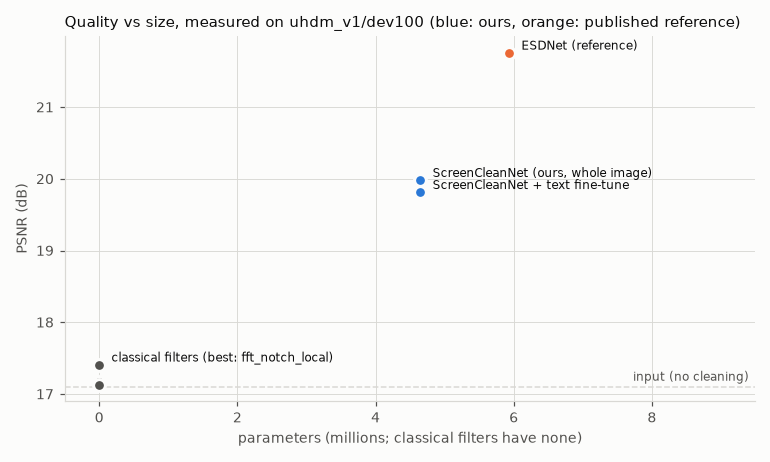
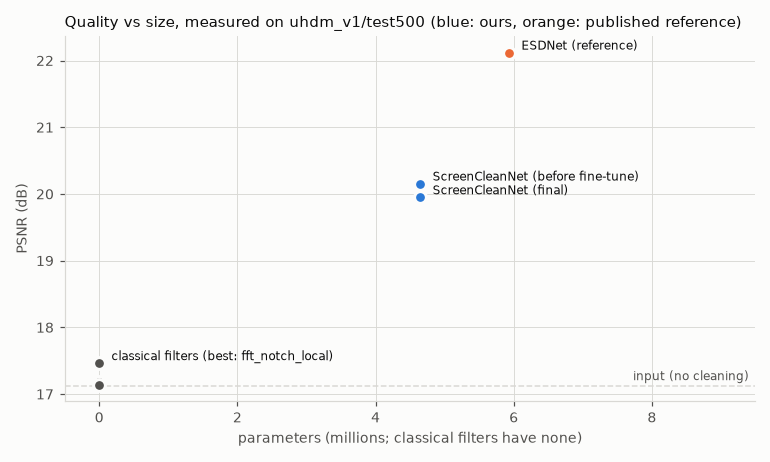
Synthetic OCR: paint over everything outside the ground-truth words before OCR, skip crops with under 20 characters, add pooled CER; queue 0026 (0019 again, masked) before the real-photo job

diff --git a/src/screenclean/eval/ocr_eval.py b/src/screenclean/eval/ocr_eval.py
@@ -6,9 +6,12 @@ to a CSV so an interrupted job resumes, and summarise with bootstrap confidence 
 (``eval/stats.py``).
 
 Colab task ``eval_synth_ocr``: every method on the synthetic text test crops (P4), whose ground
-truth is the text of the lines fully inside each crop. It runs first in P9: it checks that the
-OCR engines install and read correctly, and whether the text fine-tune also reads better than
-the main model (the final-model check of P9.0). The real-photo benchmark is in ``eval/real_ocr.py``.
+truth is the whole words fully inside each crop. Crops cut words at their edges, and OCR reads
+those pieces too, which the ground truth can't contain; so before OCR everything outside the
+ground-truth words is painted over (``mask_to_truth``), the same for every method. It runs first
+in P9: it checks that the OCR engines install and read correctly, and whether the text fine-tune
+also reads better than the main model (the final-model check of P9.0). The real-photo benchmark
+is in ``eval/real_ocr.py``.
 """
 
 from __future__ import annotations
@@ -21,6 +24,7 @@ from collections.abc import Iterable
 from pathlib import Path
 from typing import Any
 
+import cv2
 import numpy as np
 
 from screenclean.eval.evaluate import build_fn, resolve_methods
@@ -150,9 +154,14 @@ def summarize(
     table: dict[str, dict[str, dict[str, dict[str, float]]]] = defaultdict(lambda: defaultdict(dict))
     groups = tuple(groups)
     by_group: dict[tuple[str, str, str, str], list[float]] = defaultdict(list)
+    chars: dict[tuple[str, str], list[tuple[float, float]]] = defaultdict(list)
     for r in rows:
         vals = {k: float(r[k]) for k in ("cer", "wer", "word_f1")}
         table[r["engine"]][r["method"]][r["key"]] = vals
+        if r.get("ref_chars") not in (None, ""):
+            chars[(r["engine"], r["method"])].append(
+                (vals["cer"] * float(r["ref_chars"]), float(r["ref_chars"]))
+            )
         for g in groups:
             by_group[(r["engine"], g, r["method"], str(r.get(g, "?")))].append(vals["cer"])
 
@@ -165,6 +174,8 @@ def summarize(
             entry: dict[str, Any] = {"n": len(items)}
             if base and method != base_name:
                 entry["baseline"] = base_name
+            if pooled := chars.get((engine, method)):
+                entry["cer_pooled"] = sum(e for e, _ in pooled) / max(sum(n for _, n in pooled), 1.0)
             for metric in ("cer", "wer", "word_f1"):
                 values = {k: v[metric] for k, v in items.items()}
                 entry[metric] = bootstrap_mean(list(values.values())).as_dict()
@@ -219,6 +230,23 @@ def synth_truth(record: dict[str, Any]) -> str:
     return ordered_text((ln["text"], quad_box(ln["quad"])) for ln in record.get("lines", []))
 
 
+def truth_mask(record: dict[str, Any], shape: tuple[int, int], pad: int = 3) -> np.ndarray:
+    """Where the ground-truth words are (their quadrilaterals, grown by ``pad`` pixels)."""
+    mask = np.zeros(shape, np.uint8)
+    for ln in record.get("lines", []):
+        cv2.fillPoly(mask, [np.round(np.asarray(ln["quad"], np.float32)).astype(np.int32)], 1)
+    if pad:
+        mask = cv2.dilate(mask, np.ones((2 * pad + 1, 2 * pad + 1), np.uint8))
+    return mask.astype(bool)
+
+
+def keep_only(img: np.ndarray, mask: np.ndarray) -> np.ndarray:
+    """``img`` with everything outside ``mask`` set to the image's median colour (its background)."""
+    out = img.copy()
+    out[~mask] = np.median(img.reshape(-1, img.shape[-1]), axis=0)
+    return out
+
+
 def _run_method(method: dict[str, Any], moire: np.ndarray, gt: np.ndarray) -> tuple[np.ndarray, float]:
     t0 = time.perf_counter()
     out = gt if method["fn"] is None else method["fn"](moire)
@@ -242,21 +270,24 @@ def eval_synth_ocr_task(ctx: JobContext) -> TaskResult:
         done = {(r["key"], r["method"], r["engine"]) for r in read_rows(rows_path)}
         scorer = OcrScorer(engines, local / "tmp", done)
         state, message, no_text = "done", "", set()
+        min_chars = int(cfg.get("min_ref_chars", 1))
         for i, (shard, sid, index) in enumerate(items):
             if not any(scorer.pending(sid, m["label"]) for m in methods):
                 continue
             record = read_meta(shard, index, sid) or {}
             truth = synth_truth(record)
-            if not truth:
+            if len(truth.replace(" ", "").replace("\n", "")) < min_chars:  # too little text to score
                 no_text.add(sid)
                 continue
             moire, gt = decode_pair(
                 read_member(shard, *index[f"{sid}.moire.jpg"]), read_member(shard, *index[f"{sid}.gt.jpg"])
             )
+            mask = truth_mask(record, gt.shape[:2]) if cfg.get("mask_to_truth", True) else None
             new_rows = []
             for m in methods:
                 if scorer.pending(sid, m["label"]):
                     out, secs = _run_method(m, to_float01(moire), to_float01(gt))
+                    out = out if mask is None else keep_only(out, mask)
                     new_rows += scorer.score(
                         out, truth, {"key": sid, "method": m["label"], "method_seconds": secs}
                     )
@@ -274,7 +305,8 @@ def eval_synth_ocr_task(ctx: JobContext) -> TaskResult:
     summary = {
         "split": cfg["split"],
         "n_items": len(items),
-        "skipped_without_text": len(no_text),
+        "skipped_without_text": len(no_text),  # fewer than min_ref_chars characters of ground truth
+        "masked_to_truth": bool(cfg.get("mask_to_truth", True)),
         "engines": engine_records,
         "methods": [m["label"] for m in methods],
         "complete": state == "done"

diff --git a/src/screenclean/eval/report.py b/src/screenclean/eval/report.py
@@ -101,13 +101,15 @@ def ocr_tables(ocr: dict[str, Any], methods: list[str] | None = None) -> list[st
         lines += [
             f"**{engine}**",
             "",
-            "| Method | CER ↓ [95% CI] | Δ CER vs baseline [95% CI] | Word F1 ↑ [95% CI] | Pages |",
-            "|---|---|---|---|---|",
+            "| Method | CER ↓ [95% CI] | Δ CER vs baseline [95% CI] | pooled CER ↓ | Word F1 ↑ [95% CI] "
+            "| Pages |",
+            "|---|---|---|---|---|---|",
         ]
         for m in order:
             e = per[m]
             delta = _ci(e["cer_vs_input"], signed=True) if "cer_vs_input" in e else "–"
-            lines.append(f"| {m} | {_ci(e['cer'])} | {delta} | {_ci(e['word_f1'])} | {e['n']} |")
+            pooled = f"{e['cer_pooled']:.3f}" if "cer_pooled" in e else "–"
+            lines.append(f"| {m} | {_ci(e['cer'])} | {delta} | {pooled} | {_ci(e['word_f1'])} | {e['n']} |")
         lines.append("")
         for c in data.get("comparisons", []):
             verdict = "reads worse" if c["a_reads_worse"] else "not worse"
@@ -379,8 +381,18 @@ def build_report(repo_root: Path) -> list[Path]:
     md += ["## 4. OCR on synthetic text crops", ""]
     synth = find_job(s, "eval_synth_ocr")
     if synth:
-        md += [f"Engines: {_engines(synth)}", ""] + ocr_tables(synth["ocr"])
-        if p := fig_ocr(synth["ocr"], figs / "ocr_synth.png", "OCR errors on 300 synthetic text crops"):
+        md += [f"Engines: {_engines(synth)}", ""]
+        if not synth.get("masked_to_truth"):
+            md += [
+                "*Not masked to the ground truth (job 0019): OCR also read words cut at the crop edges,",
+                "which the ground truth leaves out, so every CER here is inflated. Kept for the record;",
+                "see job 0026.*",
+                "",
+            ]
+        md += ocr_tables(synth["ocr"], synth.get("methods"))
+        if p := fig_ocr(
+            synth["ocr"], figs / "ocr_synth.png", "OCR errors on synthetic text crops", synth.get("methods")
+        ):
             written.append(p)
             md += ["![OCR on synthetic text](../results/figures/ocr_synth.png)", ""]
     else:
@@ -494,7 +506,8 @@ def _engines(summary: dict[str, Any]) -> str:
             for k, v in (rec.get("versions") or {}).items()
             if k in ("paddleocr", "tesseract", "rapidocr")
         }
-        note = f"{used} {', '.join(str(v) for v in versions.values())}".strip() if used else f"{name} failed"
+        shown = [str(v) if str(v).startswith(str(used)) else f"{used} {v}" for v in versions.values()]
+        note = (", ".join(shown) or str(used)) if used else f"{name} failed"
         if used and used != name:
             note += f" (fallback for {name})"
         parts.append(note)

diff --git a/tests/test_ocr_eval.py b/tests/test_ocr_eval.py
@@ -11,7 +11,7 @@ from PIL import Image, ImageDraw, ImageFont
 from screenclean import jobs
 from screenclean.data import shards
 from screenclean.eval import tesseract
-from screenclean.eval.ocr_eval import summarize, synth_truth
+from screenclean.eval.ocr_eval import keep_only, summarize, synth_truth, truth_mask
 from screenclean.render.fonts import matplotlib_font_dir
 from screenclean.utils.io import encode_jpeg
 
@@ -34,6 +34,8 @@ def _text_crop(lines: list[str]) -> tuple[np.ndarray, list[dict]]:
         x0, y0, x1, y1 = draw.textbbox((x, y), text, font=font)
         draw.text((x, y), text, font=font, fill=(20, 20, 30))
         records.append({"text": text, "quad": [[x0, y0], [x1, y0], [x1, y1], [x0, y1]], "partial": False})
+    # text that isn't in the ground truth (like a word cut at a crop's edge): the mask must hide it
+    draw.text((30, 40), "Unrelated header words", font=font, fill=(20, 20, 30))
     return np.asarray(img, np.float32) / 255.0, records
 
 
@@ -75,6 +77,18 @@ def test_synth_truth_reads_lines_in_order():
     }
     assert synth_truth(record) == "first\nsecond"
     assert synth_truth({}) == ""
+
+
+def test_truth_mask_keeps_only_ground_truth_words():
+    img, records = _text_crop(LINES[0])
+    mask = truth_mask({"lines": records}, img.shape[:2], pad=3)
+    (x0, y0), (x1, y1) = records[0]["quad"][0], records[0]["quad"][2]
+    assert mask[int(y0) : int(y1), int(x0) : int(x1)].all() and mask[int(y0) - 3, int(x0)]
+    assert not mask[40:70, 30:300].any()  # the unrelated header
+    kept = keep_only(img, mask)
+    assert np.array_equal(kept[mask], img[mask]) and np.allclose(
+        kept[50, 100], np.median(img.reshape(-1, 3), 0)
+    )
 
 
 def test_summarize_pairs_and_intervals():
@@ -134,7 +148,9 @@ def test_eval_synth_ocr_end_to_end_and_resume(tmp_path, capsys):
     assert summary["complete"] and summary["skipped_without_text"] == 1
     assert summary["engines"]["tesseract"]["engine"] == "tesseract"
     tess = summary["ocr"]["tesseract"]["methods"]
-    assert tess["Clean target (upper bound)"]["cer"]["mean"] < 0.05
+    assert summary["masked_to_truth"] is True
+    assert tess["Clean target (upper bound)"]["cer"]["mean"] < 0.05  # the header outside the truth is hidden
+    assert tess["Clean target (upper bound)"]["cer_pooled"] < 0.05
     assert tess["Clean target (upper bound)"]["word_f1"]["mean"] > 0.95
     assert "cer_vs_input" in tess["chroma_lowpass"]
     assert summary["ocr"]["tesseract"]["comparisons"][0]["a"] == "chroma_lowpass"

diff --git a/docs/RESULTS.md b/docs/RESULTS.md
@@ -7,7 +7,15 @@ Intervals are 95% paired-bootstrap confidence intervals (10,000 resamples, seed 
 
 ### Full test set (500 pairs; used once)
 
-*Pending: job `0021/0022_eval_test500` (the 500-pair UHDM test set).*
+| Method | PSNR (dB) ↑ | Δ PSNR vs input | SSIM ↑ | LPIPS ↓ | s / image | Images |
+|---|---|---|---|---|---|---|
+| Input (no cleaning) | 17.12 | – | 0.5089 | 0.5314 | 0.10 | 500 |
+| ScreenCleanNet (before fine-tune) | 20.15 | +3.04 | 0.7581 | 0.3012 | 2.42 | 500 |
+| ScreenCleanNet (final) | 19.95 | +2.83 | 0.7483 | 0.3116 | 2.43 | 500 |
+| fft_notch_local | 17.46 | +0.35 | 0.5392 | – | 16.20 | 500 |
+| fft_notch | 17.19 | +0.07 | 0.5105 | – | 15.18 | 500 |
+| chroma_lowpass | 17.14 | +0.03 | 0.5112 | – | 0.96 | 500 |
+| ESDNet (reference) | 22.12 | +5.00 | 0.7949 | 0.2524 | 1.33 | 500 |
 
 ### dev100 (100 test pairs used during development)
 
@@ -48,7 +56,45 @@ Each variant trained from scratch for 8,000 iterations and scored on its final w
 
 ## 4. OCR on synthetic text crops
 
-*Pending: job `0019_eval_synth_ocr` (PaddleOCR and Tesseract on the synthetic text crops).*
+Engines: paddle_safe 3.7.0 (fallback for paddle); tesseract 5.3.4
+
+*Not masked to the ground truth (job 0019): OCR also read words cut at the crop edges,
+which the ground truth leaves out, so every CER here is inflated. Kept for the record;
+see job 0026.*
+
+**paddle_safe**
+
+| Method | CER ↓ [95% CI] | Δ CER vs baseline [95% CI] | pooled CER ↓ | Word F1 ↑ [95% CI] | Pages |
+|---|---|---|---|---|---|
+| Input (no cleaning) | 1.120 [0.900, 1.376] | – | – | 0.733 [0.712, 0.754] | 284 |
+| Clean target (upper bound) | 1.131 [0.908, 1.388] | +0.010 [-0.004, +0.026] | – | 0.748 [0.729, 0.767] | 284 |
+| fft_notch_local | 1.115 [0.896, 1.370] | -0.005 [-0.012, +0.001] | – | 0.734 [0.713, 0.753] | 284 |
+| ESDNet (reference) | 1.130 [0.908, 1.385] | +0.010 [-0.005, +0.026] | – | 0.720 [0.701, 0.738] | 284 |
+| ScreenCleanNet (before fine-tune) | 1.129 [0.906, 1.386] | +0.009 [-0.004, +0.022] | – | 0.740 [0.722, 0.758] | 284 |
+| ScreenCleanNet (final) | 1.129 [0.908, 1.385] | +0.009 [-0.006, +0.025] | – | 0.744 [0.726, 0.761] | 284 |
+| Ablation: simulator data only | 1.134 [0.911, 1.391] | +0.014 [-0.001, +0.030] | – | 0.750 [0.731, 0.767] | 284 |
+
+- ScreenCleanNet (final) minus ScreenCleanNet (before fine-tune): CER +0.000 [-0.011, +0.016], word F1 +0.004 [-0.000, +0.008] (not worse)
+- ScreenCleanNet (final) minus fft_notch_local: CER +0.014 [+0.002, +0.029], word F1 +0.010 [+0.002, +0.019] (reads worse)
+- ScreenCleanNet (final) minus ESDNet (reference): CER -0.001 [-0.016, +0.016], word F1 +0.024 [+0.014, +0.035] (not worse)
+
+**tesseract**
+
+| Method | CER ↓ [95% CI] | Δ CER vs baseline [95% CI] | pooled CER ↓ | Word F1 ↑ [95% CI] | Pages |
+|---|---|---|---|---|---|
+| Input (no cleaning) | 1.190 [0.997, 1.421] | – | – | 0.574 [0.544, 0.604] | 284 |
+| Clean target (upper bound) | 1.266 [1.040, 1.528] | +0.076 [-0.036, +0.219] | – | 0.652 [0.629, 0.674] | 284 |
+| fft_notch_local | 1.225 [1.015, 1.475] | +0.035 [-0.019, +0.120] | – | 0.567 [0.537, 0.596] | 284 |
+| ESDNet (reference) | 1.291 [1.084, 1.530] | +0.101 [-0.058, +0.266] | – | 0.498 [0.467, 0.530] | 284 |
+| ScreenCleanNet (before fine-tune) | 1.320 [1.078, 1.598] | +0.130 [+0.009, +0.281] | – | 0.607 [0.580, 0.633] | 284 |
+| ScreenCleanNet (final) | 1.341 [1.094, 1.622] | +0.151 [+0.033, +0.301] | – | 0.619 [0.594, 0.643] | 284 |
+| Ablation: simulator data only | 1.301 [1.061, 1.579] | +0.111 [+0.008, +0.245] | – | 0.623 [0.599, 0.646] | 284 |
+
+- ScreenCleanNet (final) minus ScreenCleanNet (before fine-tune): CER +0.022 [-0.058, +0.107], word F1 +0.012 [-0.003, +0.028] (not worse)
+- ScreenCleanNet (final) minus fft_notch_local: CER +0.116 [+0.027, +0.232], word F1 +0.052 [+0.029, +0.076] (reads worse)
+- ScreenCleanNet (final) minus ESDNet (reference): CER +0.050 [-0.053, +0.182], word F1 +0.120 [+0.090, +0.151] (not worse)
+
+![OCR on synthetic text](../results/figures/ocr_synth.png)
 
 ## 5. OCR on real phone photos (same geometry for every method)
 
@@ -60,7 +106,13 @@ Each variant trained from scratch for 8,000 iterations and scored on its final w
 
 ## 7. Size and speed
 
-*Pending: job `0023_efficiency` (parameters, FLOPs, T4 and CPU latency).*
+| Model | Parameters | GFLOPs 1280x720 | T4 ms 1280x720 | CPU s 1280x720 | GFLOPs 1920x1080 | T4 ms 1920x1080 | CPU s 1920x1080 |
+|---|---|---|---|---|---|---|---|
+| ScreenCleanNet (final) | 4.65 M | 183 | 233 | 15.05 | 415 | 537 | 39.02 |
+| ScreenCleanNet tiny (architecture only) | 0.79 M | 34 | 92 | 4.61 | 78 | 208 | 13.28 |
+| ESDNet (reference) | 5.93 M | 505 | 130 | 10.04 | 1119 | 300 | 23.96 |
+
+GPU: Tesla T4 (fp16); CPU: 2 threads (fp32). latency = image in -> image out (median); GPU fp16, CPU fp32.
 
 ## Figures
 
